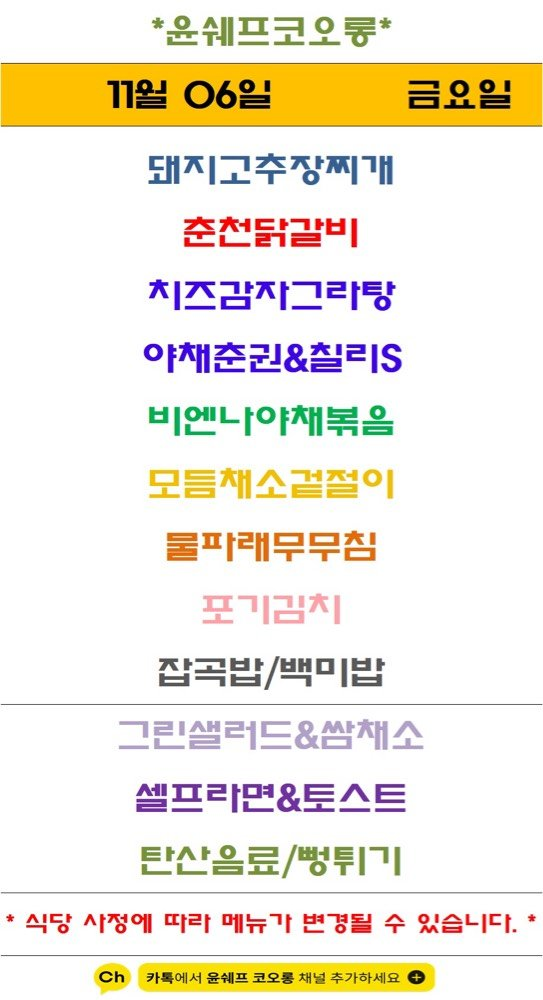
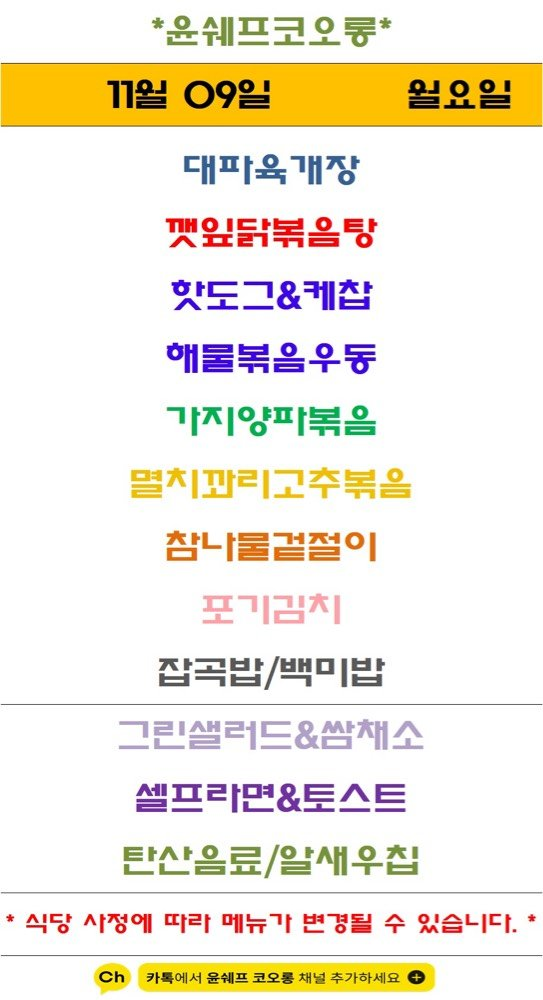
Update menu board assets

diff --git a/guro-menu/index.html b/guro-menu/index.html
@@ -32,7 +32,7 @@
   </header>
   <section class="meta">
     <div><small>기준 날짜</small><strong>2026년 11월 9일 월요일</strong></div>
-    <div><small>최종 갱신</small><strong>2026-11-09 09:03:50</strong></div>
+    <div><small>최종 갱신</small><strong>2026-11-09 09:13:36</strong></div>
     <div><small>등록 식당</small><strong>5개</strong></div>
   </section>
   <div class="notice">공개 카카오 채널의 메뉴 이미지를 자동 수집하고 OCR로 정리합니다. 텍스트에 오타가 있을 수 있으니 식단 이미지를 함께 확인해 주세요.</div>
@@ -104,7 +104,7 @@
         </div>
         <img class="menu-image" src="./images/yoon-chef-kolon.png" alt="윤쉐프 코오롱 식단 이미지" loading="lazy">
         <p class="message">최신 공개 식단 이미지의 텍스트입니다. 날짜는 원본 이미지를 확인해 주세요.</p>
-        <ul><li>댄지고추장찌개</li><li>지즈람자그라탕</li><li>야재준권&amp;질16</li><li>비엔나야재볶음</li><li>물파래무무침</li><li>잡곡밥/벽미밥</li><li>그린샐러드&amp;쌈채소</li><li>셀프라면&amp;토스트</li></ul>
+        <ul><li>대파육개장</li><li>핫도그&amp;케잡</li><li>애물볶음우동</li><li>가지양파볶을</li><li>잠나물걷절이</li><li>잡곡밥/백미밥</li><li>그린샐러드&amp;쌈채소</li><li>셀프라면&amp;토스트</li><li>탄산음료/알새우집</li></ul>
       </article>
   </section>
   <section class="seo" aria-label="검색 정보">한신IT타워 구내식당 자연푸드 구내식당 더이츠푸드 벽산더이룸 윤쉐프 코오롱 한신IT타워 벽산디지털밸리7차 대륭포스트타워1차 벽산디지털밸리1차 코오롱싸이언스밸리1차 서울 구로구 디지털로 272 한신IT타워 지하1층 서울 구로구 디지털로33길 50 벽산디지털밸리7차 지하1층 서울 구로구 디지털로 288 대륭포스트타워1차 지하1층 서울 구로구 디지털로27길 24 벽산디지털밸리1차 지하1층 서울 구로구 디지털로34길 43 코오롱싸이언스밸리1차 지하1층</section>

diff --git a/menu-today/index.html b/menu-today/index.html
@@ -209,7 +209,7 @@
 
     <section class="meta-bar">
       <div class="meta-card"><div class="meta-label">기준 날짜</div><div class="meta-value">2026년 11월 9일 월요일</div></div>
-      <div class="meta-card"><div class="meta-label">최종 가져온 시간</div><div class="meta-value">2026-11-09 09:03:36</div></div>
+      <div class="meta-card"><div class="meta-label">최종 가져온 시간</div><div class="meta-value">2026-11-09 09:13:22</div></div>
       <div class="meta-card"><div class="meta-label">확인 완료</div><div class="meta-value">9개 식당</div></div>
       <div class="meta-card"><div class="meta-label">준비중</div><div class="meta-value">3개 채널</div></div>
     </section>
